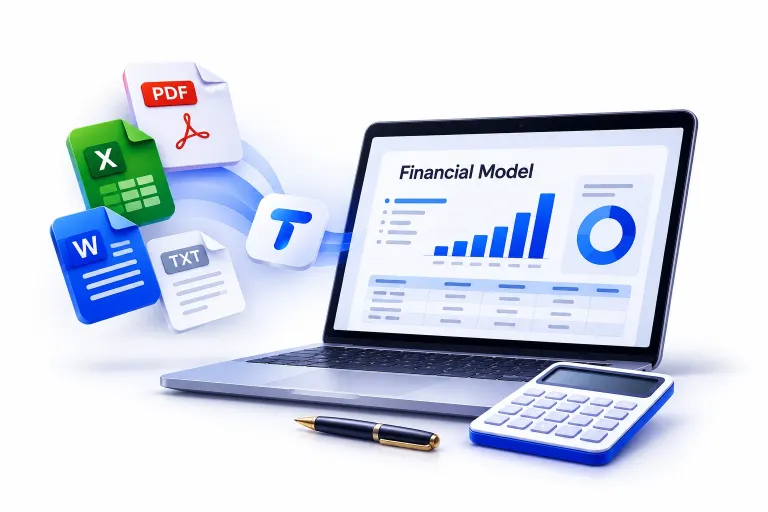
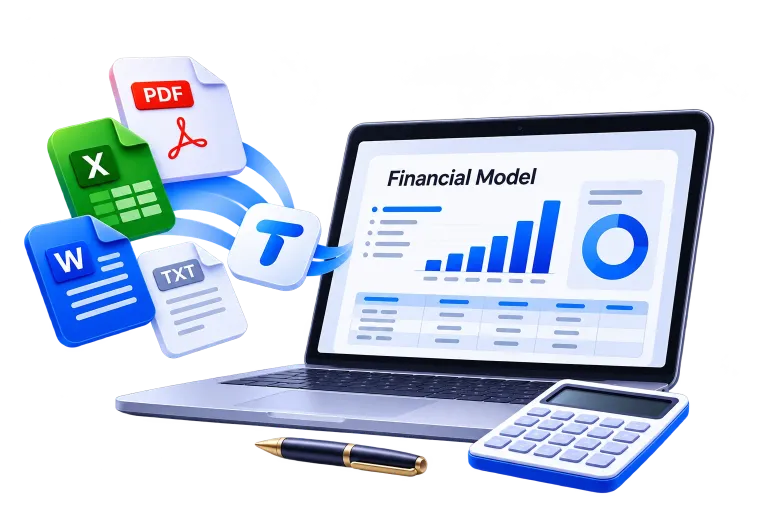
Use transparent Tenor hero, drop background wash, fill output previews with real figures

diff --git a/tenor/css/tenor.css b/tenor/css/tenor.css
@@ -18,7 +18,6 @@
   --bad: #C2352B; --bad-soft: rgba(194, 53, 43, 0.09);
   --q-sourced: #0F7A4A; --q-derived: #3550FC; --q-assumed: #C27C0E;
   --chart-slate: #CBD2DE;
-  --orb-1: rgba(53, 80, 252, 0.30); --orb-2: rgba(109, 91, 255, 0.24); --orb-3: rgba(56, 189, 248, 0.22); --orb-4: rgba(53, 80, 252, 0.14);
   --shadow: 0 1px 2px rgba(15, 23, 42, 0.04), 0 12px 32px -14px rgba(15, 23, 42, 0.14);
   --shadow-lift: 0 2px 4px rgba(15, 23, 42, 0.05), 0 18px 40px -16px rgba(15, 23, 42, 0.2);
   --display: "Geist", system-ui, -apple-system, "Segoe UI", sans-serif;
@@ -41,7 +40,6 @@
   --bad: #FF9B8F; --bad-soft: rgba(255, 155, 143, 0.12);
   --q-sourced: #5FD39A; --q-derived: #8EA2FF; --q-assumed: #F2C46D;
   --chart-slate: #3A4253;
-  --orb-1: rgba(53, 80, 252, 0.45); --orb-2: rgba(109, 91, 255, 0.34); --orb-3: rgba(56, 189, 248, 0.22); --orb-4: rgba(53, 80, 252, 0.22);
   --shadow: 0 1px 2px rgba(0, 0, 0, 0.3), 0 14px 36px -16px rgba(0, 0, 0, 0.6);
   --shadow-lift: 0 2px 6px rgba(0, 0, 0, 0.35), 0 20px 44px -16px rgba(0, 0, 0, 0.7);
   color-scheme: dark;
@@ -68,11 +66,6 @@ p { margin: 0 0 0.75em; }
 
 /* Soft colour shapes behind the page, in the logo's blues. They give the frosted glass something real to
    blur, so panels read as see-through rather than white. The page itself stays pure white. */
-.backdrop { position: fixed; inset: 0; z-index: -1; pointer-events: none; overflow: hidden; }
-.backdrop::before, .backdrop::after { content: ""; position: absolute; border-radius: 50%; filter: blur(70px); }
-.backdrop::before { width: 46vw; height: 46vw; min-width: 340px; min-height: 340px; right: -8vw; top: -12vw; background: radial-gradient(circle at 35% 35%, var(--orb-1), var(--orb-2) 55%, transparent 72%); }
-.backdrop::after { width: 40vw; height: 40vw; min-width: 300px; min-height: 300px; left: 4vw; bottom: -14vw; background: radial-gradient(circle at 60% 40%, var(--orb-3), var(--orb-4) 55%, transparent 72%); }
-.backdrop { background: radial-gradient(28vw 22vw at 52% 46%, var(--orb-4), transparent 70%); }
 
 /* ---------- glass ---------- */
 .glass,
@@ -527,7 +520,6 @@ table.data td.neg { color: var(--bad); }
 .empty-ico .ico, .step-ico .ico { width: 24px; height: 24px; color: var(--accent); }
 .rail-img { margin: 18px -6px 0; }
 .rail-img img { width: 100%; height: auto; display: block; border-radius: var(--r); }
-:root[data-theme="dark"] .rail-img img, :root[data-theme="dark"] .home-hero-art img { background: #FFFFFF; }
 
 /* ---------- landing page ---------- */
 .btn-lg { min-height: 46px; padding: 0 20px; font-size: 0.98rem; border-radius: 13px; }
@@ -541,9 +533,7 @@ table.data td.neg { color: var(--bad); }
 .trust li { display: flex; align-items: center; gap: 8px; }
 .trust .ico { width: 18px; height: 18px; }
 .home-hero-art { margin: 0; position: relative; }
-.home-hero-art::before { content: ""; position: absolute; inset: 14% 10% 8%; border-radius: 40%; background: radial-gradient(circle, rgba(53, 80, 252, 0.18), transparent 70%); filter: blur(30px); z-index: 0; }
-.home-hero-art img { position: relative; z-index: 1; width: 100%; height: auto; display: block; border-radius: 22px; mix-blend-mode: multiply; }
-:root[data-theme="dark"] .home-hero-art img { mix-blend-mode: normal; box-shadow: 0 20px 50px -24px rgba(0, 0, 0, 0.8); }
+.home-hero-art img { position: relative; z-index: 1; width: 100%; height: auto; display: block; }
 .rail-img img { mix-blend-mode: multiply; }
 :root[data-theme="dark"] .rail-img img { mix-blend-mode: normal; }
 .home-sec-head { display: flex; flex-wrap: wrap; align-items: baseline; justify-content: space-between; gap: 6px 20px; margin: 10px 2px 14px; }
@@ -565,33 +555,31 @@ table.data td.neg { color: var(--bad); }
 .proof > div + div { border-left: 1px solid var(--line); }
 .proof strong { font-size: clamp(1.6rem, 2.6vw, 2.1rem); font-weight: 600; letter-spacing: -0.03em; line-height: 1; }
 .proof span { color: var(--muted); font-size: 0.86rem; }
-.home-cta { display: flex; flex-wrap: wrap; align-items: center; justify-content: space-between; gap: 16px; padding: clamp(22px, 3vw, 32px); border-radius: 24px; background: linear-gradient(135deg, var(--accent-soft), transparent 60%), var(--glass); }
+.home-cta { display: flex; flex-wrap: wrap; align-items: center; justify-content: space-between; gap: 16px; padding: clamp(22px, 3vw, 32px); border-radius: 24px; background: var(--glass); }
 .home-cta h2 { font-size: clamp(1.25rem, 2vw, 1.55rem); }
 .home-cta p { margin: 4px 0 0; }
 .home-cta .actions { margin: 0; }
 
 /* product previews on the landing page */
-.mock { height: 132px; border-radius: 14px; background: var(--surface-2); box-shadow: inset 0 0 0 1px var(--line); padding: 14px; position: relative; overflow: hidden; }
-.mock-sheet { display: grid; grid-template-columns: 1.4fr 1fr 1fr 1fr; gap: 4px; align-content: center; }
-.mock-sheet span { height: 14px; border-radius: 4px; background: var(--glass-strong); box-shadow: 0 0 0 1px var(--line); }
-.mock-sheet span.h { background: #0B1220; box-shadow: none; opacity: 0.85; }
-.mock-sheet span.l { background: var(--surface-3); }
-.mock-sheet span.b { background: var(--accent-soft); box-shadow: 0 0 0 1px var(--accent-line); }
-.mock-doc .page { position: absolute; width: 58%; left: 21%; top: 12px; bottom: -6px; background: var(--glass-strong); border-radius: 8px; box-shadow: 0 0 0 1px var(--line), 0 8px 20px -10px rgba(15, 23, 42, 0.3); padding: 12px; display: grid; gap: 6px; align-content: start; }
-.mock-doc .page.back { left: 27%; top: 6px; opacity: 0.6; transform: rotate(4deg); }
-.mock-doc i, .mock-slide i { display: block; height: 5px; border-radius: 3px; background: var(--line-strong); }
-.mock-doc i.t, .mock-slide i.t { height: 8px; width: 60%; background: var(--ink); opacity: 0.75; }
-.mock-doc i.s { width: 70%; }
-.mock .bars { display: flex; align-items: flex-end; gap: 4px; height: 34px; }
+.mock { height: 150px; border-radius: 14px; background: var(--surface-2); box-shadow: inset 0 0 0 1px var(--line); padding: 12px; position: relative; overflow: hidden; font-variant-numeric: tabular-nums; }
+.mock-sheet table { width: 100%; border-collapse: collapse; font-size: 0.7rem; background: var(--glass-strong); box-shadow: 0 0 0 1px var(--line); border-radius: 6px; overflow: hidden; }
+.mock-sheet th, .mock-sheet td { padding: 4px 6px; text-align: right; border-bottom: 1px solid var(--line); white-space: nowrap; }
+.mock-sheet th { background: #0B1220; color: #FFFFFF; font-weight: 600; }
+.mock-sheet td:first-child, .mock-sheet th:first-child { text-align: left; }
+.mock-sheet tr:last-child td { border-bottom: 0; }
+.mock-doc .page { position: absolute; width: 70%; left: 15%; top: 12px; bottom: -6px; background: var(--glass-strong); border-radius: 8px; box-shadow: 0 0 0 1px var(--line), 0 8px 20px -10px rgba(15, 23, 42, 0.3); padding: 10px 12px; display: grid; gap: 5px; align-content: start; }
+.mock-doc .page.back { left: 21%; top: 6px; opacity: 0.6; transform: rotate(4deg); }
+.mock-doc strong, .mock-slide strong { font-size: 0.72rem; line-height: 1.25; color: var(--ink); }
+.mock-doc span, .mock-slide span { font-size: 0.64rem; line-height: 1.35; color: var(--muted); }
+.mock .bars { display: flex; align-items: flex-end; gap: 3px; height: 34px; margin-top: 2px; }
 .mock .bars b { flex: 1; border-radius: 3px 3px 0 0; background: var(--accent); opacity: 0.85; }
-.mock-slide { display: grid; place-content: center; }
-.mock-slide { padding: 0; }
-.mock-slide::before { content: ""; position: absolute; inset: 18px 14%; border-radius: 8px; background: var(--glass-strong); box-shadow: 0 0 0 1px var(--line), 0 8px 20px -10px rgba(15, 23, 42, 0.3); }
-.mock-slide i.t, .mock-slide .bars { position: relative; width: 120px; }
-.mock-slide .bars { height: 46px; margin-top: 10px; }
-.mock-csv { display: grid; align-content: center; gap: 6px; font-size: 0.74rem; }
+.mock-slide { display: grid; place-items: center; padding: 14px; }
+.mock-slide .slide { width: 100%; height: 100%; border-radius: 8px; background: var(--glass-strong); box-shadow: 0 0 0 1px var(--line), 0 8px 20px -10px rgba(15, 23, 42, 0.3); padding: 10px 12px; display: grid; grid-template-rows: auto auto 1fr; gap: 2px; }
+.mock-slide .bars { height: 100%; min-height: 30px; }
+.mock-csv { display: grid; align-content: center; gap: 5px; font-size: 0.7rem; }
 .mock-csv code { font-family: ui-monospace, "SF Mono", Menlo, monospace; color: var(--muted); background: var(--glass-strong); padding: 3px 8px; border-radius: 6px; box-shadow: 0 0 0 1px var(--line); white-space: nowrap; overflow: hidden; text-overflow: ellipsis; }
 .mock-csv code:first-child { color: var(--accent); }
+.outputs-note { margin: 12px 0 0; font-size: 0.85rem; color: var(--muted); }
 
 @media (max-width: 1180px) {
   .outputs { grid-template-columns: repeat(2, minmax(0, 1fr)); }

diff --git a/tenor/js/ui/home.js b/tenor/js/ui/home.js
@@ -18,16 +18,37 @@
     grid: I('<rect class="duo" x="4" y="4" width="16" height="16" rx="3"/><rect x="4" y="4" width="16" height="16" rx="3"/><path d="M4 9.5h16M4 14.5h16M9.5 4v16"/>'),
   };
 
-  /* Small product previews built in HTML, so they stay sharp and follow the theme. */
-  const MOCK = {
-    excel: '<div class="mock mock-sheet" aria-hidden="true">' + Array.from({ length: 24 }, (_, i) => '<span class="' + (i < 4 ? 'h' : i % 4 === 0 ? 'l' : [5, 10, 15, 22].includes(i) ? 'b' : '') + '"></span>').join('') + '</div>',
-    word: '<div class="mock mock-doc" aria-hidden="true"><div class="page back"></div><div class="page"><i class="t"></i><i></i><i class="s"></i><div class="bars"><b style="height:40%"></b><b style="height:62%"></b><b style="height:55%"></b><b style="height:80%"></b></div><i></i><i class="s"></i></div></div>',
-    deck: '<div class="mock mock-slide" aria-hidden="true"><i class="t"></i><div class="bars"><b style="height:30%"></b><b style="height:45%"></b><b style="height:42%"></b><b style="height:64%"></b><b style="height:78%"></b><b style="height:96%"></b></div></div>',
-    csv: '<div class="mock mock-csv" aria-hidden="true"><code>year,sales,costs</code><code>2028,18.1m,8.3m</code><code>2029,29.6m,12.1m</code><code>2030,37.9m,15.0m</code></div>',
-  };
+  /* Small product previews built in HTML, filled with the engine's real output for the
+     sample case, so every number shown is one the downloads would contain. */
+  const SAMPLE_CASE = 'ng-olam-rukubi-rice';
+  function previews() {
+    const P = root.TenorProject, E = root.TenorEngine, N = root.TenorNarrative, D = A.data;
+    const c = A.allCases().find((x) => x.id === SAMPLE_CASE);
+    const input = P.engineInput(P.fromCase(c, D.sectors, D.defaults), D.defaults);
+    const m = E.run(input), o = m.out, k = m.kpis, cur = input.currency;
+    const money = (x) => N.money(x, cur);
+    const short = (x) => N.money(x, '');
+    const first = m.opsStart || 1; // first operating year (1-based)
+    const Y = (t) => m.years[t - 1]; // out arrays are 1-based, years 0-based
+    const rows = [0, 1, 2, 3].map((i) => first + i).filter((t) => t <= m.N);
+    const opsRev = o.revenue.slice(first, first + 8);
+    const max = Math.max.apply(null, opsRev) || 1;
+    const bars = (vals) => '<div class="bars">' + vals.map((v) => '<b style="height:' + Math.max(6, Math.round((v / max) * 100)) + '%"></b>').join('') + '</div>';
+    return {
+      name: c.name,
+      excel: '<div class="mock mock-sheet" aria-hidden="true"><table><tr><th>Year</th><th>Sales</th><th>EBITDA</th></tr>' +
+        rows.slice(0, 3).map((t) => '<tr><td>' + Y(t) + '</td><td>' + short(o.revenue[t]) + '</td><td>' + short(o.ebitda[t]) + '</td></tr>').join('') + '</table></div>',
+      word: '<div class="mock mock-doc" aria-hidden="true"><div class="page back"></div><div class="page"><strong>Rice farm and mill plan</strong><span>Project IRR ' + N.pct(k.projectIRR) + '. The money put in comes back in about ' + k.paybackYears.toFixed(1) + ' years.</span>' + bars(opsRev.slice(0, 6)) + '<span>Sales by year, ' + Y(first) + ' to ' + Y(Math.min(first + 5, m.N)) + '</span></div></div>',
+      deck: '<div class="mock mock-slide" aria-hidden="true"><div class="slide"><strong>Sales reach ' + money(opsRev[opsRev.length - 1]) + ' by ' + Y(first + opsRev.length - 1) + '</strong><span>EBITDA margin ' + N.pct(k.ebitdaMargin) + '</span>' + bars(opsRev) + '</div></div>',
+      csv: '<div class="mock mock-csv" aria-hidden="true"><code>year,sales_m,ebitda_m</code>' +
+        rows.slice(0, 3).map((t) => '<code>' + Y(t) + ',' + (o.revenue[t] / 1e6).toFixed(1) + ',' + (o.ebitda[t] / 1e6).toFixed(1) + '</code>').join('') + '</div>',
+    };
+  }
 
   function view(el) {
     document.title = 'Tenor · Project finance modeller';
+    let MOCK;
+    try { MOCK = previews(); } catch (e) { MOCK = { excel: '', word: '', deck: '', csv: '' }; }
     el.innerHTML = '<div class="page home">' +
       '<section class="home-hero glass" aria-labelledby="home-h">' +
         '<div class="home-hero-text">' +
@@ -53,7 +74,7 @@
           '<article class="output glass">' + MOCK.word + '<h3>Word report</h3><p>A business-plan style report with charts, ready for a funding application.</p></article>' +
           '<article class="output glass">' + MOCK.deck + '<h3>Presentation</h3><p>12 slides with editable charts and speaker notes for investor meetings.</p></article>' +
           '<article class="output glass">' + MOCK.csv + '<h3>CSV data</h3><p>Every table as plain values, ready to load into other tools.</p></article>' +
-        '</div></section>' +
+        '</div>' + (MOCK.name ? '<p class="outputs-note">Previews show real output for the ' + A.esc(MOCK.name) + ' example in the case library.</p>' : '') + '</section>' +
 
       '<section class="home-sec" aria-labelledby="who-h"><div class="home-sec-head"><h2 id="who-h">Made for three readers</h2><p class="muted">One set of numbers, explained the way each person needs.</p></div>' +
         '<div class="who3">' +

diff --git a/tenor/index.html b/tenor/index.html
@@ -19,7 +19,6 @@
 </head>
 <body>
 <a class="skip" href="#app">Skip to content</a>
-<div class="backdrop" aria-hidden="true"></div>
 
 <div class="shell">
   <aside class="sidebar glass" id="sidebar" aria-label="Tenor navigation">

diff --git a/CLAUDE.md b/CLAUDE.md
@@ -188,7 +188,7 @@ Label it "inspired by" her public-sector work. Never imply it's the real governm
 
 ### 8.6 Tenor (`/tenor/`): built, refine only
 AI-assisted project finance modeller. Replaces the earlier "investment readiness model generator" idea. Turns a project's story and numbers into a linked Excel model, a Word report, a PowerPoint deck and CSV data, for any sector and funding route. Full brief: `private/briefs/tenor.md` (not committed).
-- **Own look:** Tenor uses its own brand, not the portfolio's violet and gold, including on its case study tab. Light by default on pure white (#FFFFFF) with a dark option, frosted glass panels, soft corners, a left sidebar with duotone icons, and Geist throughout (Outfit only for the wordmark). Colour follows the Tenor logo (`tenor/img/tenor-mark.svg`): neutral navy text (#0B1220) with the logo blue (#3550FC) used sparingly for primary actions, the active item, focus and key chart lines. A faint blue wash behind the page is deliberate: it is what the frosted glass blurs, and it is the one exception to the no-gradients rule.
+- **Own look:** Tenor uses its own brand, not the portfolio's violet and gold, including on its case study tab. Light by default on pure white (#FFFFFF) with a dark option, frosted glass panels, soft corners, a left sidebar with duotone icons, and Geist throughout (Outfit only for the wordmark). Colour follows the Tenor logo (`tenor/img/tenor-mark.svg`): neutral navy text (#0B1220) with the logo blue (#3550FC) used sparingly for primary actions, the active item, focus and key chart lines. No coloured washes or gradients behind the page: the background stays plain white (or plain dark).
 - **Structure:** opens on a landing page (`#home`) that explains the tool, with the hero image `tenor/img/hero.webp`. Inner pages (results, intake, library cases) have a back link at the top. The sidebar has Home, Your projects, Case library, How it works and Case study (last).
 - **Data:** `tenor/data/cases.json` holds 17 real projects from public sources. Every value is labelled sourced, derived or assumed. Never add a figure without opening its source.
 - **Tests:** `tenor/tests/run-node.js` (engine), `tenor/tests/engine.test.html` (browser), and `tenor/tests/lo-recalc.sh` with `excel-compare.js` and `excel-input-change.js` to check every Excel cell against the engine in LibreOffice.
